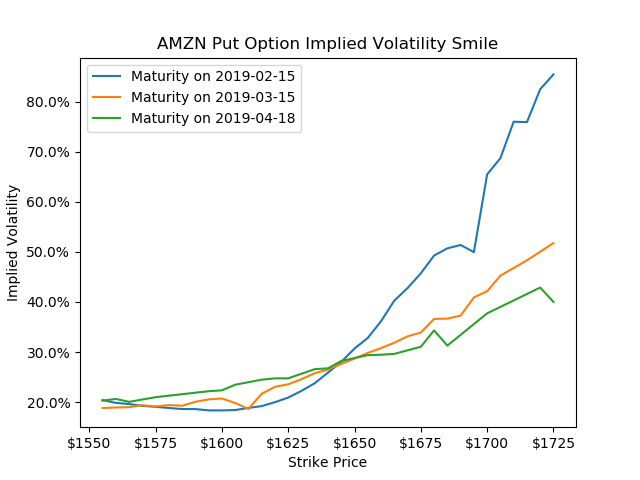
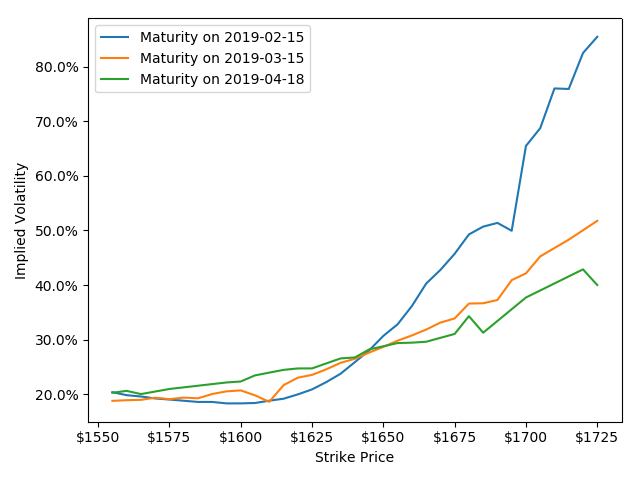
Made another change to vol plots - removed title and made dimensions tight; just going to include title stuff in writeup

diff --git a/Homework 1/question_solutions/question_2_vol_plots.py b/Homework 1/question_solutions/question_2_vol_plots.py
@@ -54,13 +54,12 @@ def plot2DVolSmile(data: pd.DataFrame, name: str, save_loc: str):
         ax.set_xticklabels(['$%i' % i for i in ax.get_xticks()])
         ax.set_xlabel('Strike Price')
 
-        # Setting legend and title
+        # Setting legend and setting plot dimensions to tight
         plt.legend()
-        full_option_type = 'Call' if (option_type == 'C') else 'Put'
-        plt.title(' '.join([name, full_option_type,
-                            'Option Implied Volatility Smile']))
-
+        plt.tight_layout()
+        
         # Saving to file
+        full_option_type = 'Call' if (option_type == 'C') else 'Put'
         fname = '_'.join([name, full_option_type, '2DVolSmile.png'])
         plt.savefig(fname=(save_loc + '/' + fname))
 
@@ -116,12 +115,11 @@ def plot3DVolatilitySurface(data: pd.DataFrame, name: str, save_loc: str):
         # Modifying z ticks to be percentages
         ax.set_zticklabels(['{:,.0%}'.format(i) for i in ax.get_zticks()])
 
-        # Setting title
-        full_option_type = 'Call' if (option_type == 'C') else 'Put'
-        plt.title(' '.join([name, full_option_type,
-                            'Option Implied Volatility Surface']))
+        # Setting plot dimensions to tight
+        plt.tight_layout()
 
         # Saving to file
+        full_option_type = 'Call' if (option_type == 'C') else 'Put'
         fname = '_'.join([name, full_option_type, '3DVolSurface.png'])
         plt.savefig(fname=(save_loc + '/' + fname))
 
